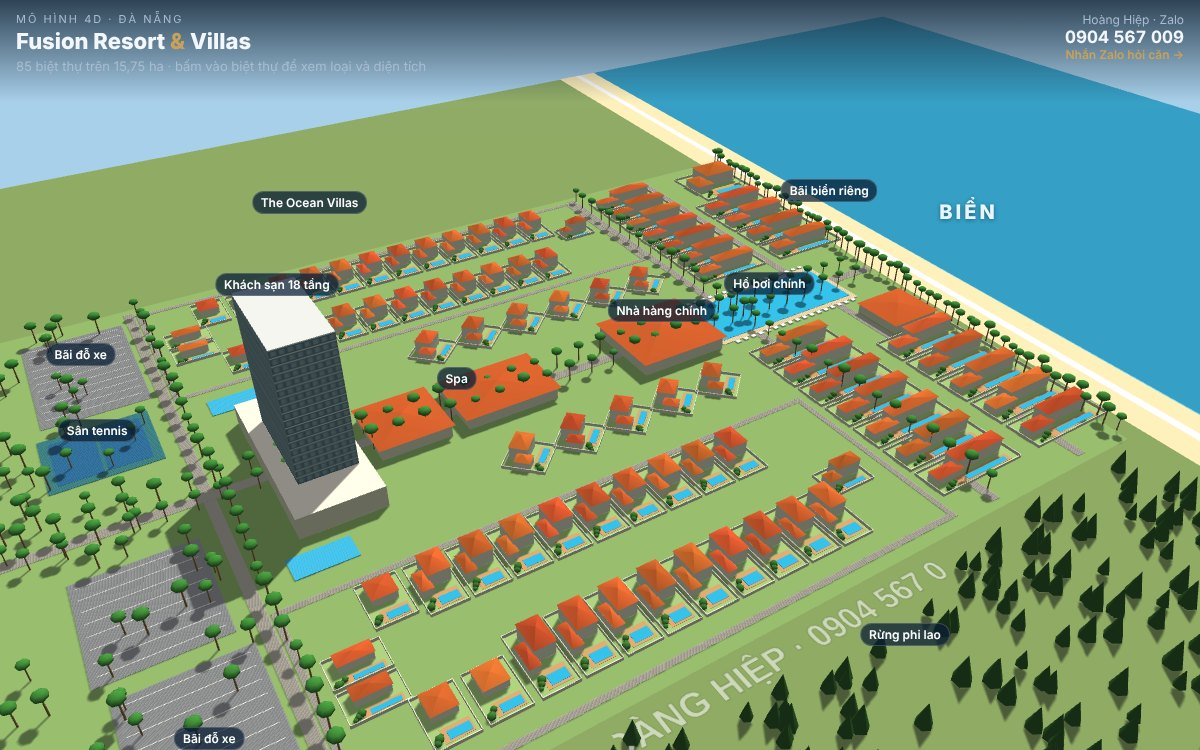
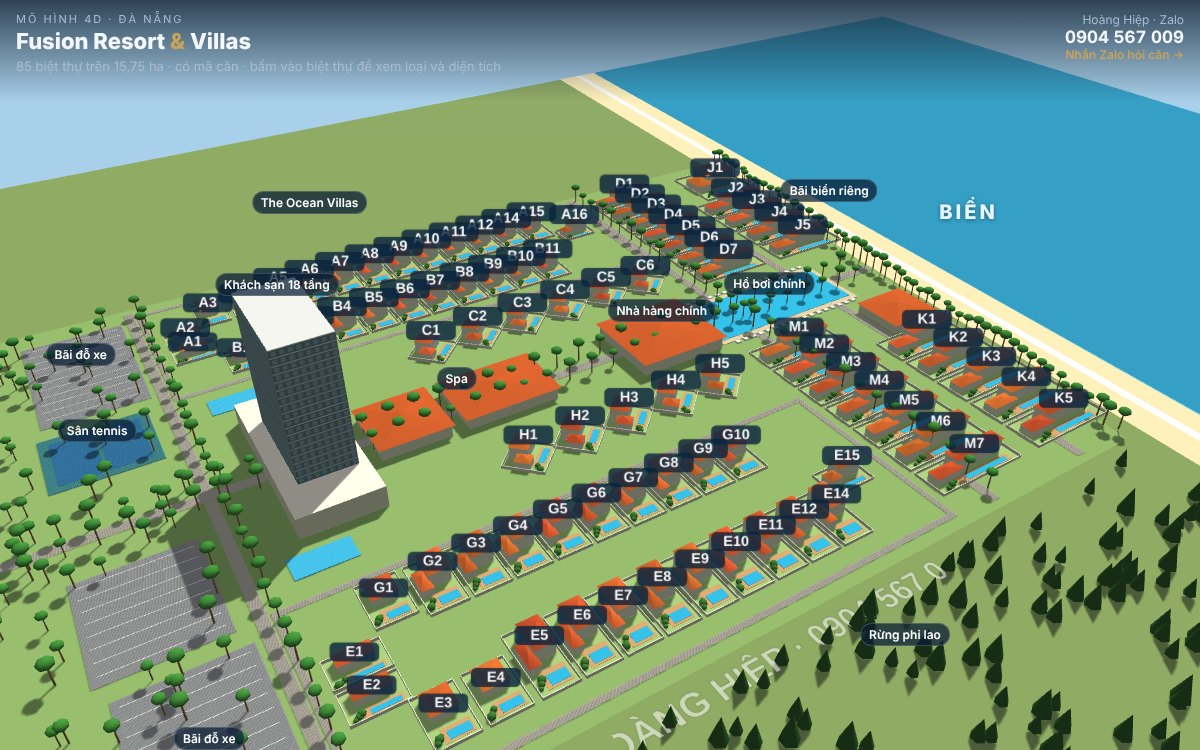
Fusion: mặt bằng và 4D có mã căn công khai (plugin 2.20.164)
Claude-Session: https://claude.ai/code/session_011HGb6VAzLiwbq5KWLxGuh9

diff --git a/wordpress/wp-content/mu-plugins/hh-crm/data-fusion-csbh-11-2026.php b/wordpress/wp-content/mu-plugins/hh-crm/data-fusion-csbh-11-2026.php
@@ -24,7 +24,7 @@ add_filter(
 			'hh_p_tour_360'        => 'https://fusionresortvillas.com/360/',
 			'hh_p_tour_360_poster' => 'plugin:img/fusion/fusion-toan-canh-day-biet-thu-bien.jpg',
 			// Mô hình 4D mặt bằng tổng thể (dựng theo mặt bằng CĐT, không mã căn) – lưu trong kho mã projects/fusion/4d/.
-			'hh_p_tour_4d'      => 'https://rawcdn.githack.com/hiephoangmt-debug/hoang-hiep-crm/c7d2ca2b3870b6605dfa1abafdac17501acd008a/projects/fusion/4d/fusion-4d.html',
+			'hh_p_tour_4d'      => 'https://rawcdn.githack.com/hiephoangmt-debug/hoang-hiep-crm/1a0770dbe9871c4536b1ba21e37cd0b05e76d909/projects/fusion/4d/fusion-4d.html',
 			'hh_p_tour_poster'  => 'plugin:img/fusion/fusion-mo-hinh-4d-xem-truoc.jpg',
 			'hh_p_tour_name'    => 'mặt bằng 4D',
 			'hh_p_scale'        => '15,75 ha – mật độ xây dựng khoảng 16,7%, khoảng 300 m bờ biển',
@@ -64,7 +64,7 @@ Khu biệt thự vận hành từ quý 1/2024, chương trình cho thuê từ th
 			'hh_p_villa_table' => array( 'Biệt thự biển (tin rao) | 486 – 700 m² | – | Khoảng 32 – 54 tỷ' ),
 			'hh_p_unit_area'   => array( 'Đất khoảng 486 – 700 m²' ),
 			'hh_p_manager'     => array( 'Fusion' ),
-			'hh_p_tour_4d'     => array( 'https://rawcdn.githack.com/hiephoangmt-debug/hoang-hiep-crm/163efdf439523c99d3e02ec14263ef3ba6ea19a6/projects/fusion/4d/fusion-4d.html', 'https://rawcdn.githack.com/hiephoangmt-debug/hoang-hiep-crm/56391180de3c496c5b973203a6df7b01aa4ef00e/projects/fusion/4d/fusion-4d.html' ),
+			'hh_p_tour_4d'     => array( 'https://rawcdn.githack.com/hiephoangmt-debug/hoang-hiep-crm/163efdf439523c99d3e02ec14263ef3ba6ea19a6/projects/fusion/4d/fusion-4d.html', 'https://rawcdn.githack.com/hiephoangmt-debug/hoang-hiep-crm/56391180de3c496c5b973203a6df7b01aa4ef00e/projects/fusion/4d/fusion-4d.html', 'https://rawcdn.githack.com/hiephoangmt-debug/hoang-hiep-crm/c7d2ca2b3870b6605dfa1abafdac17501acd008a/projects/fusion/4d/fusion-4d.html' ),
 		);
 		foreach ( $projects as $i => $p ) {
 			if ( 'fusion-resort-villas-da-nang' !== ( $p['slug'] ?? '' ) ) {
@@ -90,9 +90,16 @@ Khu biệt thự vận hành từ quý 1/2024, chương trình cho thuê từ th
 			if ( false === strpos( $swap, $aerial ) ) {
 				$swap = rtrim( $swap ) . "\n$aerial | Ảnh chụp từ trên cao Fusion Resort & Villas Đà Nẵng: bãi biển riêng, hồ bơi chính và các dãy biệt thự mái ngói | tổng thể | Toàn cảnh từ trên cao";
 			}
+			// 2.20.164: anh Hiệp cho hiện mã căn công khai → sơ đồ vẽ lại có ghi mã căn thay bản không mã.
+			$v163 = $swap;
+			$swap = preg_replace(
+				'#^plugin:img/fusion/fusion-mat-bang-ve-lai\.jpg \|[^\n]*$#m',
+				'plugin:img/fusion/fusion-mat-bang-ma-can.jpg | Mặt bằng tổng thể Fusion Resort & Villas Đà Nẵng có mã căn, tô màu theo loại biệt thự 1 – 6 phòng ngủ (vẽ lại theo mặt bằng chủ đầu tư) | tổng thể',
+				$swap
+			);
 			if ( $swap !== $links ) {
 				$projects[ $i ]['meta']['hh_p_image_links']     = $swap;
-				$projects[ $i ]['fix_meta']['hh_p_image_links'] = array_merge( (array) ( $p['fix_meta']['hh_p_image_links'] ?? array() ), array( $links, $v158 ) );
+				$projects[ $i ]['fix_meta']['hh_p_image_links'] = array_merge( (array) ( $p['fix_meta']['hh_p_image_links'] ?? array() ), array( $links, $v158, $v163 ) );
 			}
 			$projects[ $i ]['fix_excerpt'] = $p['excerpt'] ?? '';
 			$projects[ $i ]['excerpt']     = 'Biệt thự biển Fusion Resort & Villas Đà Nẵng trên trục Trường Sa (Ngũ Hành Sơn): chủ đầu tư còn 1 căn Beach Garden Villa 4 phòng ngủ, đất 753 m², chiết khấu 20% khi thanh toán nhanh, tặng nội thất 5 sao khoảng 2 tỷ; các căn khác giao dịch chuyển nhượng.';
@@ -130,18 +137,18 @@ add_action(
 	}
 );
 
-// Sơ đồ mặt bằng vẽ lại: nếu lần trước tải lỗi (thiếu file) thì tải lại, và luôn đứng đầu mục Mặt bằng tổng thể.
+// Sơ đồ mặt bằng có mã căn: nếu tải lỗi thì tải lại; đặt đầu mục Mặt bằng tổng thể, gỡ bản vẽ lại không mã.
 add_action(
 	'admin_init',
 	static function () {
-		if ( get_option( 'hh_fusion_mb_ve_lai_ok' ) || ! current_user_can( 'edit_posts' ) ) {
+		if ( get_option( 'hh_fusion_mb_ma_can_ok' ) || ! current_user_can( 'edit_posts' ) ) {
 			return;
 		}
 		$post = get_page_by_path( 'fusion-resort-villas-da-nang', OBJECT, 'du-an' );
 		if ( ! $post ) {
 			return;
 		}
-		$key  = 'plugin:img/fusion/fusion-mat-bang-ve-lai.jpg';
+		$key  = 'plugin:img/fusion/fusion-mat-bang-ma-can.jpg';
 		$done = (array) get_post_meta( $post->ID, '_hh_img_links', true );
 		$id   = $done[ $key ] ?? null;
 		if ( ! is_int( $id ) ) {
@@ -156,8 +163,9 @@ add_action(
 			return; // Chờ tải xong, lần sau xếp thứ tự.
 		}
 		$ids = array_filter( array_map( 'absint', explode( ',', (string) get_post_meta( $post->ID, 'hh_p_masterplan_img', true ) ) ) );
-		$ids = array_values( array_unique( array_merge( array( $id ), array_diff( $ids, array( $id ) ) ) ) );
+		$old = (int) ( $done['plugin:img/fusion/fusion-mat-bang-ve-lai.jpg'] ?? 0 ); // bản không mã căn: gỡ khỏi mục (vẫn còn trong Thư viện)
+		$ids = array_values( array_unique( array_merge( array( $id ), array_diff( $ids, array( $id, $old ) ) ) ) );
 		update_post_meta( $post->ID, 'hh_p_masterplan_img', implode( ',', $ids ) );
-		update_option( 'hh_fusion_mb_ve_lai_ok', 1, false );
+		update_option( 'hh_fusion_mb_ma_can_ok', 1, false );
 	}
 );

diff --git a/wordpress/bai-viet/fusion-mat-bang-ve-lai.py b/wordpress/bai-viet/fusion-mat-bang-ve-lai.py
@@ -1,4 +1,4 @@
-"""Mặt bằng Fusion Resort & Villas Đà Nẵng vẽ lại bám theo mặt bằng tổng thể chủ đầu tư (đủ 85 căn, đúng hàng – đúng loại, không ghi mã căn)."""
+"""Mặt bằng Fusion Resort & Villas Đà Nẵng vẽ lại bám theo mặt bằng tổng thể chủ đầu tư (đủ 85 căn, đúng hàng – đúng loại, ghi mã căn theo mặt bằng chủ đầu tư)."""
 import math
 import os
 import sys
@@ -36,8 +36,24 @@ def rect(x0, y0, x1, y1, fill, r=6, outline=None, width=1):
     d.rounded_rectangle([P(x0, y0), P(x1, y1)], radius=r, fill=fill, outline=outline, width=width)
 
 
+
+def _codes():
+    a = ['A3', 'A4'] + ['A%d' % i for i in (5, 6, 7, 8, 9, 10, 11, 12, 14, 15)] + ['A16', 'A2', 'A1', 'B1'] + ['B%d' % i for i in range(2, 12)]
+    a += ['C%d' % i for i in range(1, 7)] + ['D%d' % i for i in range(1, 8)] + ['J1'] + ['J%d' % i for i in range(2, 6)]
+    a += ['H%d' % i for i in range(1, 6)] + ['M%d' % i for i in range(1, 8)] + ['K%d' % i for i in range(1, 6)]
+    a += ['G1'] + ['G%d' % i for i in range(2, 11)] + ['E1', 'E2', 'E3', 'E4'] + ['E%d' % i for i in (5, 6, 7, 8, 9, 10, 11, 12, 14)] + ['E15']
+    return iter(a)
+
+
+CODES = _codes()
+
+
+def code_at(cx, cy):
+    d.text(P(cx, cy), next(CODES), font=f(15, True), fill='white', anchor='mm', stroke_width=3, stroke_fill='#0f2240')
+
 def villa(x0, y0, x1, y1, key):
     rect(x0, y0, x1, y1, C[key], 5, 'white', 2)
+    code_at((x0 + x1) / 2, (y0 + y1) / 2)
 
 
 def row(x0, x1, y0, y1, n, key, gap=4):
@@ -62,6 +78,7 @@ def diag(cx, cy, s, key):
         r = math.radians(a + 45)
         pts.append(P(cx + s * math.cos(r), cy + s * math.sin(r)))
     d.polygon(pts, fill=C[key], outline='white', width=2)
+    code_at(cx, cy)
 
 
 def text(x, y, t, size=20, col=NAVY, bold=True):
@@ -171,7 +188,7 @@ d.text((cx + 50, cy + 10), 'Hướng Bắc', font=f(18), fill=MUTED)
 
 # Tiêu đề và chú thích
 d.text((60, 36), 'FUSION RESORT & VILLAS ĐÀ NẴNG – MẶT BẰNG TỔNG THỂ', font=f(42, True), fill=NAVY)
-d.text((60, 94), '85 biệt thự trên 15,75 ha · tô màu theo loại · lối vào đường Trường Sa, biển hướng Đông – Đông Bắc', font=f(26), fill=MUTED)
+d.text((60, 94), '85 biệt thự trên 15,75 ha · tô màu theo loại, ghi mã căn · lối vào Trường Sa, biển hướng Đông – Đông Bắc', font=f(26), fill=MUTED)
 legend = [
     ('pres', 'Presidential Villa', '6 phòng ngủ · 1 căn'),
     ('b5', 'Beach Front Villa', '5 phòng ngủ · 9 căn sát biển'),
@@ -192,4 +209,5 @@ d.text((60, y + 28), 'với Beach Front.', font=f(18), fill=MUTED)
 
 d.text((60, H - 56), 'Vẽ lại theo mặt bằng tổng thể của chủ đầu tư – không theo tỷ lệ chính xác, vị trí từng căn để tham khảo.', font=f(21), fill=MUTED)
 d.text((W - 60, H - 58), 'Hoàng Hiệp · 0904 567 009', font=f(24, True), fill=GOLD, anchor='ra')
-im.save(os.path.join(OUT, 'fusion-mat-bang-ve-lai.jpg'), quality=90, optimize=True, progressive=True)
+assert next(CODES, None) is None, 'thừa mã căn'
+im.save(os.path.join(OUT, 'fusion-mat-bang-ma-can.jpg'), quality=90, optimize=True, progressive=True)

diff --git a/wordpress/packaging/hoang-hiep-crm.php b/wordpress/packaging/hoang-hiep-crm.php
@@ -2,7 +2,7 @@
 /**
  * Plugin Name: Hoàng Hiệp CRM
  * Description: Dự án, nhà đất mua bán / cho thuê, khách hàng tiềm năng và dữ liệu dự án Đà Nẵng cho hiephoangmt.com. Dùng kèm giao diện Hoàng Hiệp.
- * Version: 2.20.163
+ * Version: 2.20.164
  * Author: Hoàng Hiệp
  * Requires PHP: 7.4
  */
@@ -14,7 +14,7 @@ if ( defined( 'HH_CRM_VERSION' ) ) {
 	return;
 }
 
-define( 'HH_CRM_VERSION', '2.20.163' );
+define( 'HH_CRM_VERSION', '2.20.164' );
 define( 'HH_CRM_DIR', __DIR__ . '/hh-crm/' );
 define( 'HH_CRM_URL', plugin_dir_url( __FILE__ ) . 'hh-crm/' );
 

diff --git a/wordpress/wp-content/mu-plugins/hh-crm.php b/wordpress/wp-content/mu-plugins/hh-crm.php
@@ -2,7 +2,7 @@
 /**
  * Plugin Name: Hoàng Hiệp CRM
  * Description: Dự án, nhà đất mua bán / cho thuê và khách hàng tiềm năng cho hiephoangmt.com.
- * Version: 2.20.163
+ * Version: 2.20.164
  * Author: Hoàng Hiệp
  */
 
@@ -13,7 +13,7 @@ if ( defined( 'HH_CRM_VERSION' ) ) {
 	return;
 }
 
-define( 'HH_CRM_VERSION', '2.20.163' );
+define( 'HH_CRM_VERSION', '2.20.164' );
 define( 'HH_CRM_DIR', __DIR__ . '/hh-crm/' );
 define( 'HH_CRM_URL', WPMU_PLUGIN_URL . '/hh-crm/' );
 

diff --git a/wordpress/GHI-CHU-CAP-NHAT.md b/wordpress/GHI-CHU-CAP-NHAT.md
@@ -1,6 +1,6 @@
 # Gói cập nhật hiephoangmt.com – 12/10/2026
 
-**File cài:** `hoang-hiep-tron-goi.zip` (giao diện Hoàng Hiệp **2.15.62** + plugin Hoàng Hiệp CRM **2.20.163**) · cập nhật nhanh bằng điện thoại: `cap-nhat-nhanh.zip`
+**File cài:** `hoang-hiep-tron-goi.zip` (giao diện Hoàng Hiệp **2.15.62** + plugin Hoàng Hiệp CRM **2.20.164**) · cập nhật nhanh bằng điện thoại: `cap-nhat-nhanh.zip`
 **Xem trước:** https://claude.ai/artifact/ACKuFhbbb8yj5VoU8Ty9X7 (riêng tư – bấm Chia sẻ nếu muốn gửi người khác)
 
 ## Cài đặt từng bước (khoảng 10 phút)
@@ -40,6 +40,10 @@ Hình minh hoạ từng bước: thư mục `huong-dan/` (cai-1 … cai-4, inter
 Kẹt ở bước nào: chụp màn hình gửi lại.
 
 Ô / bài anh đã tự sửa trong quản trị **không bị ghi đè** khi nhập dữ liệu.
+
+## Có gì mới – plugin 2.20.164 (06/11/2026)
+
+- **Fusion – hiện mã căn công khai (anh Hiệp đồng ý 06/11):** sơ đồ mặt bằng vẽ lại ghi mã từng căn A1 – K5 theo mặt bằng chủ đầu tư (ảnh mới, tự thay bản không mã); mô hình 4D hiện mã trên từng biệt thự (nút "Mã căn" bật/tắt), bấm vào căn hiện "Căn … · loại · diện tích" và nút "Hỏi giá căn … qua Zalo".
 
 ## Có gì mới – plugin 2.20.163 (06/11/2026)
 
